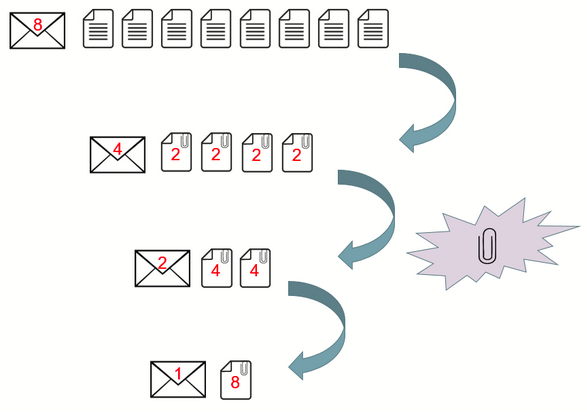
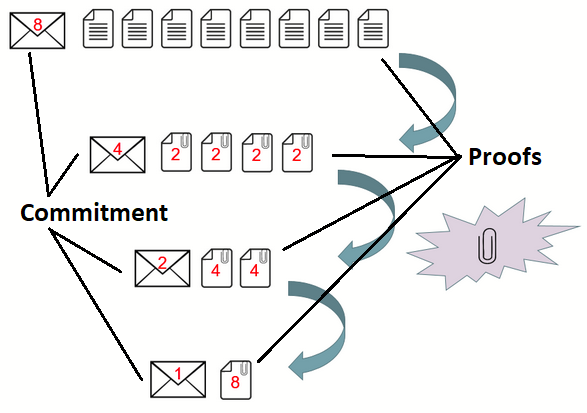
ZK

diff --git a/src/cryptography/bulletproofs-and-mimblewimble/PITCHME.md b/src/cryptography/bulletproofs-and-mimblewimble/PITCHME.md
@@ -87,8 +87,13 @@ See full report [*here*](https://tlu.tarilabs.com/cryptography/bulletproofs-and-
 
 A <u>ZK proof/protocol</u> is a method by which the *prover* can convince the *verifier* that a statement $ Y $ is true without revealing any information. The proof system must be **complete** (if statement true and *prover* and *verifier* follow protocol *verifier* will accept), **sound** (if statement false and *verifier* follows protocol *verifier* will not accept) and **ZK** (if statement is true and *prover* follows protocol, *verifier* will not learn any confidential information except that statement $ Y $ is true).
 
+@divend
 
-<div class="LineHeight20per"> </div>
+@div[s350px]
+
+![ZK](https://raw.githubusercontent.com/tari-labs/tari-university/bulletproofs-and-mw-presentation/src/cryptography/bulletproofs-and-mimblewimble/sources/ZK.png)
+
+@divend
 
 The <u>Discrete Logarithm Problem</u> (DLP) with $ \log_ba = k $ such that $ b^k=a $ for any integer $ k $ where $ a,b \in \mathbb G $ is hard to guess (has no efficient solution) for carefully chosen $ \mathbb F_p $.
 
@@ -226,7 +231,7 @@ $$
 
 @div[text-left]
 
-If the *verifier* $ \mathcal{V} $ sends a random random linear combination of the constraints $ y \in \mathbb{Z_p} $ and $ z \in \mathbb{Z_p} $ to the *prover* $ \mathcal{P} $ the following can be constructed for (1):
+If the *verifier* $ \mathcal{V} $ sends a random random linear combination of the constraints $ y \in \mathbb{Z_p} $ and $ z \in \mathbb{Z_p} $ to the *prover* $ \mathcal{P} $ the following can be constructed for (1):
 
 @divend
 
@@ -241,7 +246,7 @@ $$
 
 @div[text-left]
 
-Only important thing to note here is that (2) contains a single inner-product identity containing the bits of $ x $ in 2 vectors. Introducing blinding vectors for `$ \mathbf {a}_L $` and `$ \mathbf {a}_L $` a vector PCs can be constructed.
+Only important thing to note here is that (2) contains a single inner-product identity containing the bits of $ x $ in 2 vectors. Introducing blinding vectors for `$ \mathbf {a}_L $` and `$ \mathbf {a}_L $`, vector PCs can be constructed.
 
 @divend
 
@@ -249,17 +254,17 @@ Only important thing to note here is that (2) contains a single inner-product id
 
 @div[text-left]
 
-These vectors have size $ n $ that would require many expensive exponentiations. However, they are reduced interactively by the *prover* $ \mathcal{P} $ and *verifier* $ \mathcal{V} $ into a single multi-exponentiation of size $ 2n + 2 \log_2(n) + 1 $ with a logarithmic number of rounds, each time calculating a new set of PC generators.
+These vectors have size $ n $ that would require many expensive exponentiations. However, they are reduced interactively by the *prover* $ \mathcal{P} $ and *verifier* $ \mathcal{V} $ into a single multi-exponentiation of size $ 2n + 2 \log_2(n) + 1 $ with a logarithmic number of rounds.
 
 <div class="LineHeight20per"> </div> 
 
-The PC scheme allows us to cut a vector in half and compress the two halves together. Applying the same trick repeatedly  $ \log n $ times produces a single value which is easy to send.
+<u>How this works:</u> The PC scheme allows us to cut a vector in half and compress the two halves together, each time calculating a new set of PC generators. Applying the same trick repeatedly $ \log n $ times produces a single value which is easy to send.
 
 @divend
 
 @div[s500px]
 
-![Ricardian Contract](https://raw.githubusercontent.com/tari-labs/tari-university/bulletproofs-and-mw-presentation/src/cryptography/bulletproofs-and-mimblewimble/sources/VectorCutNHalf.png)
+![VectorCutNHalf](https://raw.githubusercontent.com/tari-labs/tari-university/bulletproofs-and-mw-presentation/src/cryptography/bulletproofs-and-mimblewimble/sources/VectorCutNHalf.png)
 
 @divend
 
